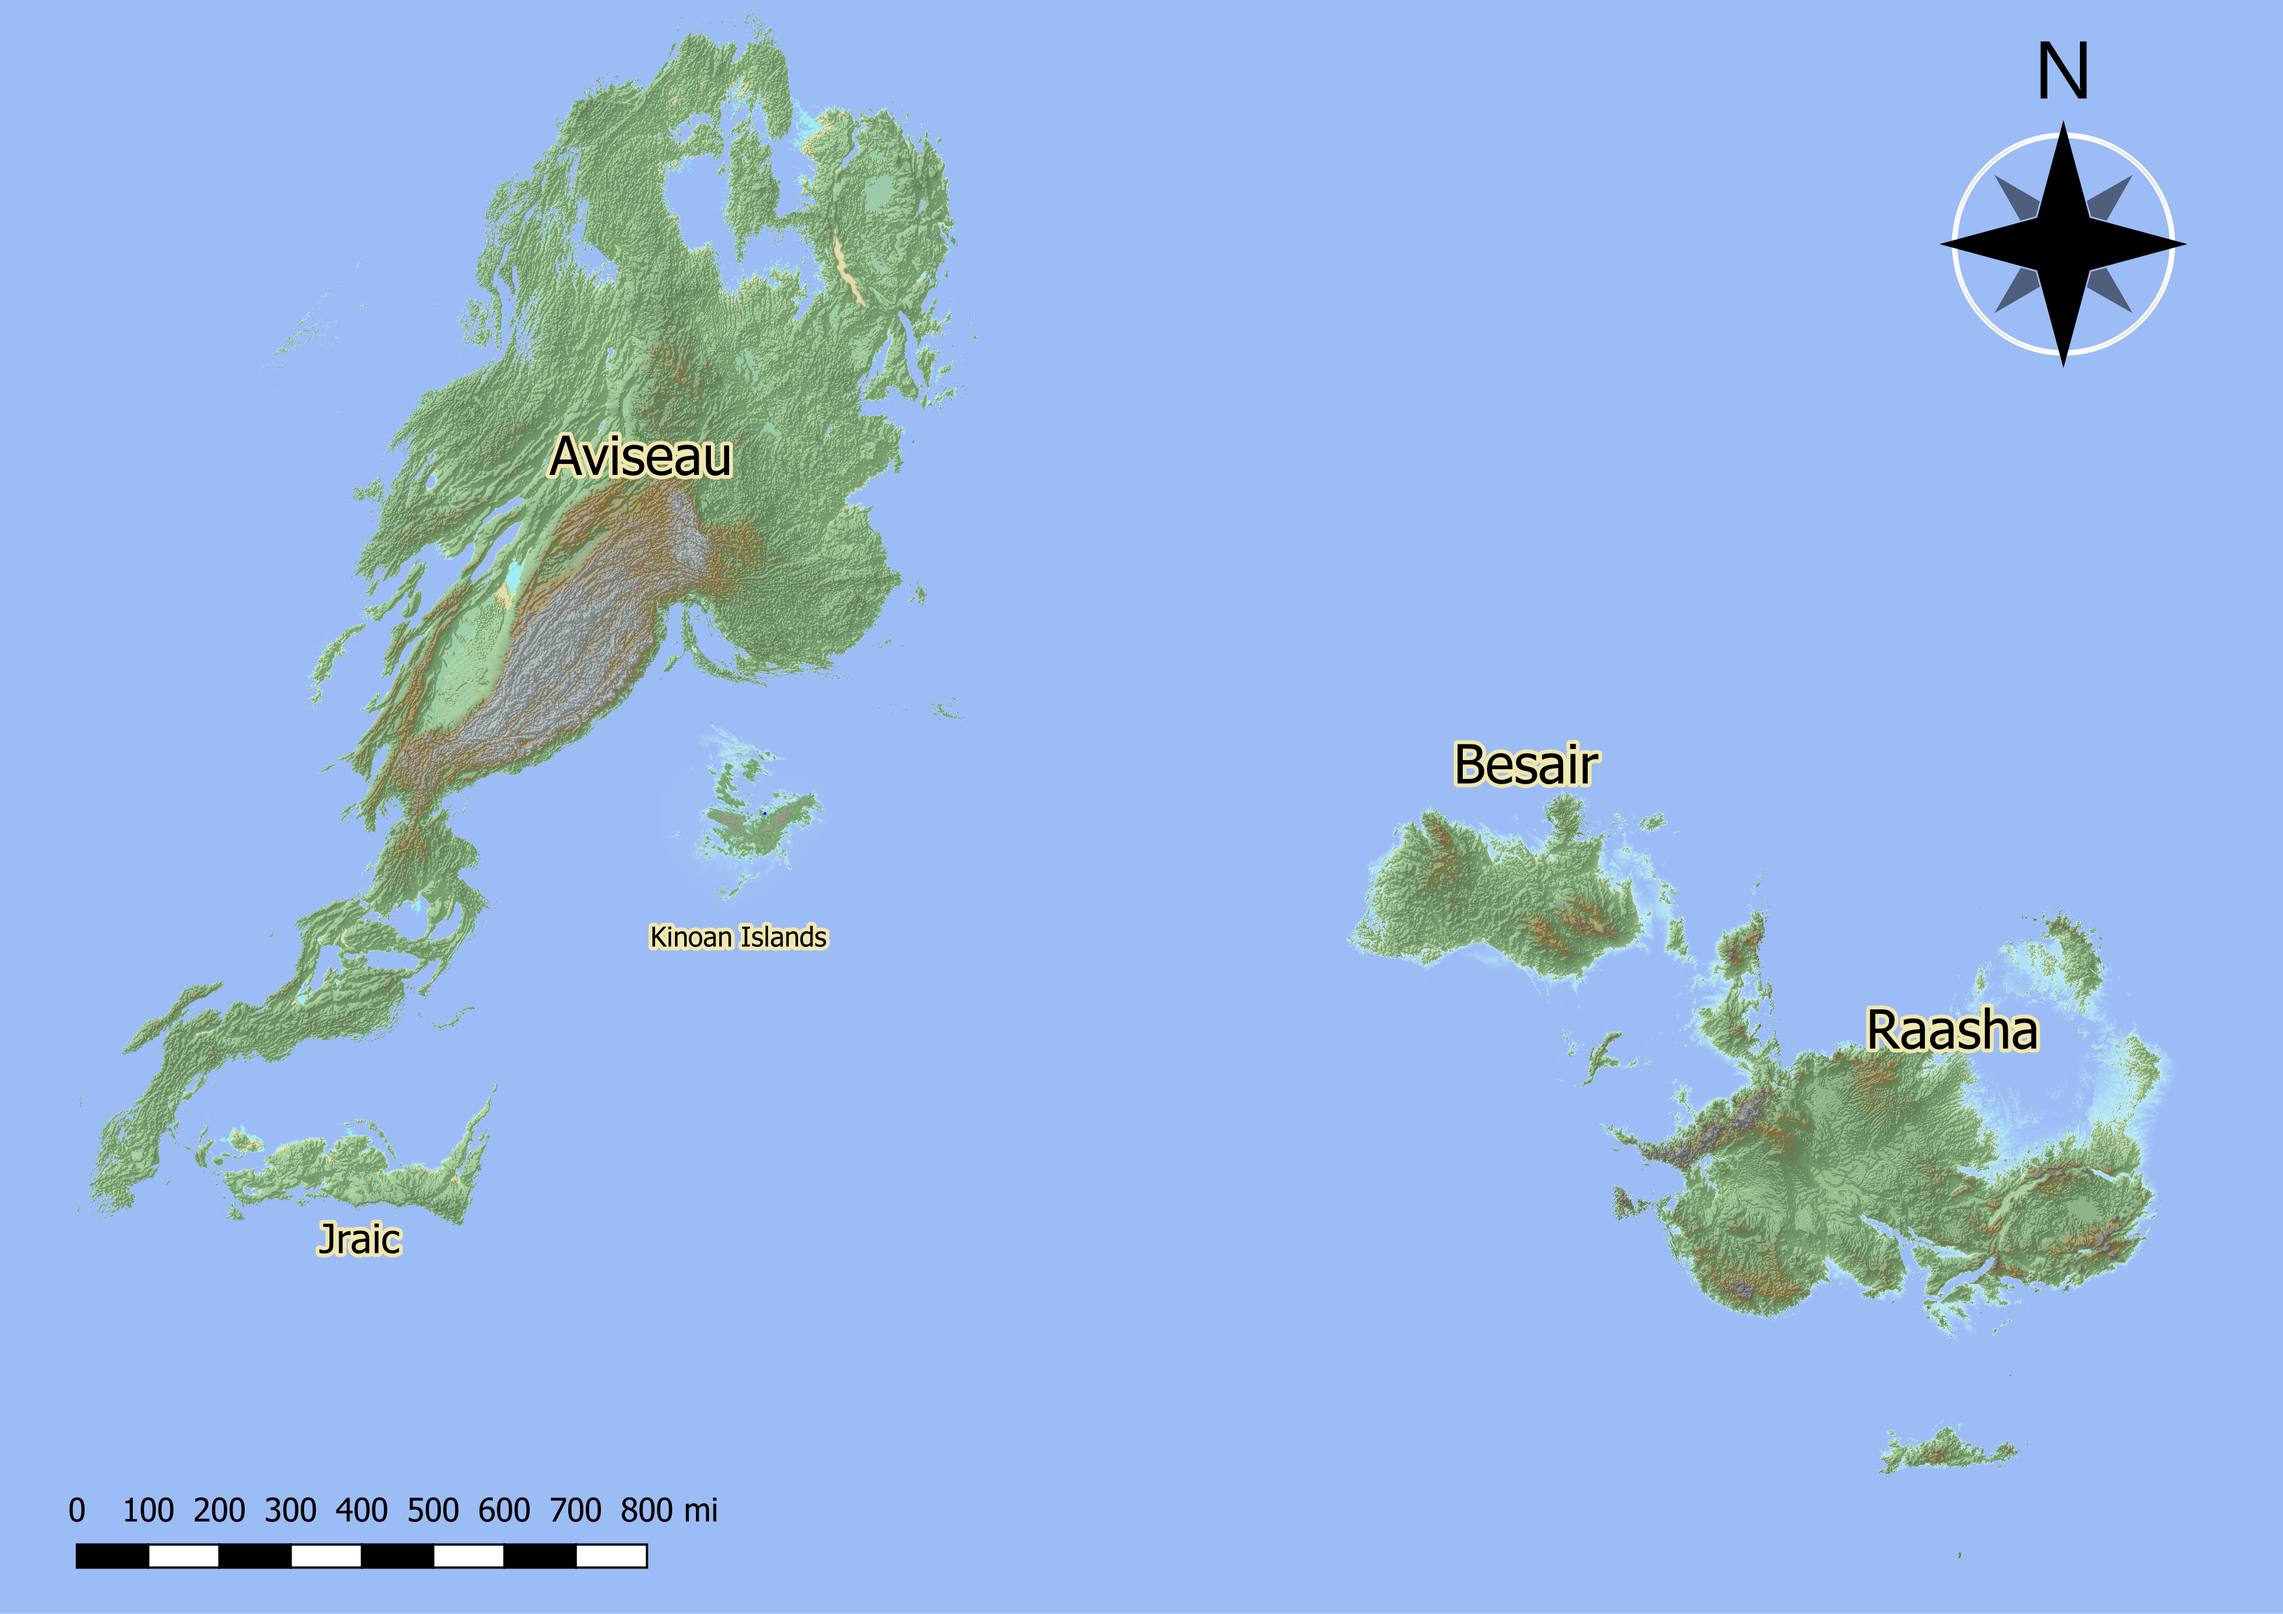
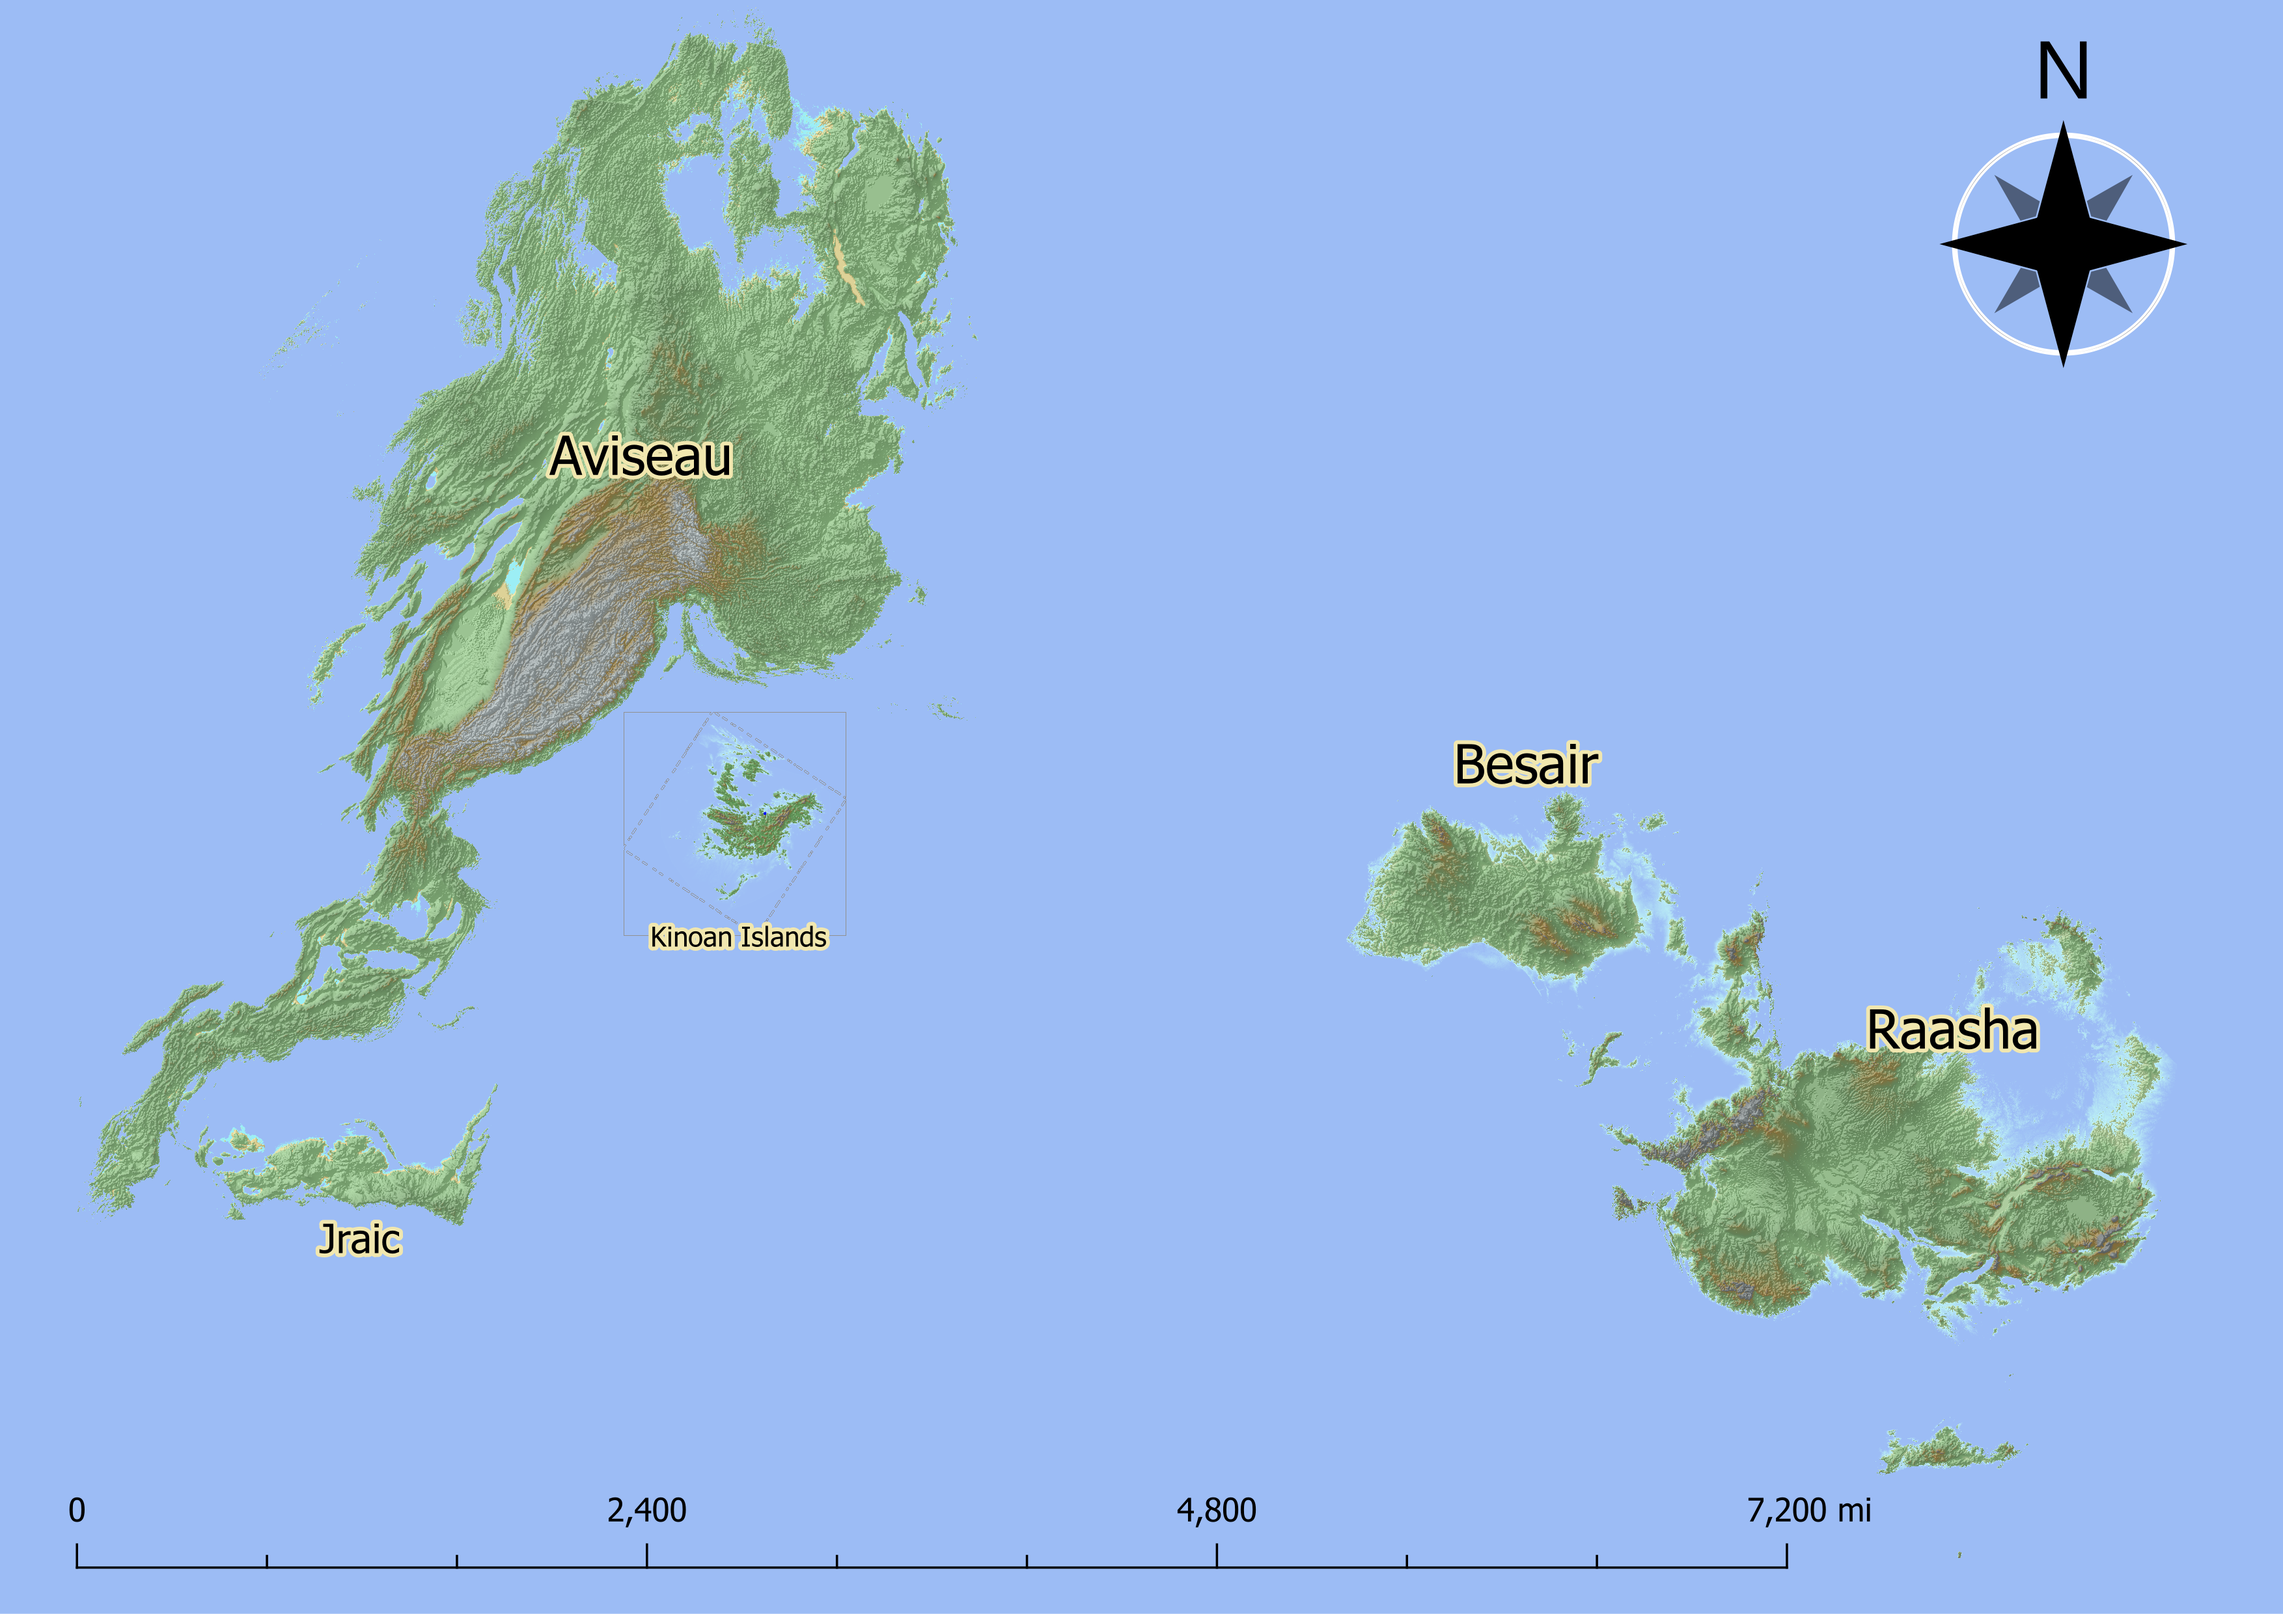
Quartz sync: Oct 16, 2025, 1:09 PM

diff --git a/content/Iometis Player Information/Locations/Kinoan Islands/Kinos/Settlements/Midovici/Midovici.md b/content/Iometis Player Information/Locations/Kinoan Islands/Kinos/Settlements/Midovici/Midovici.md
@@ -34,3 +34,13 @@ The Ghost of Light Keeper: Legend says the light house is haunted by the ghost o
 Rumor has it that the Diamond Circle is planning something big, and dangerous, speculation says they are preparing for war but against who is the harder question to answer.
 
 People have been disappearing from the poorer districts of the city recently, no one knows where they go or what has happened to them, most assume they ran away or died an unknown death somewhere, but those who knew them insist that something nefarious is afoot.
+
+Maps
+---
+### Region under Midovici's Protection Guild
+![[Midovici Region Map.png]]
+
+### Midovici
+![[Midovici Map.png]]
+
+

diff --git a/content/Iometis Player Information/Locations/Kinoan Islands/Kinos/Kinos Overview.md b/content/Iometis Player Information/Locations/Kinoan Islands/Kinos/Kinos Overview.md
@@ -1,3 +1,5 @@
+![[Kinos Island Map.png]]
+
 ## Overview
 
 The largest of the three islands and the namesake of the region, Kinos is known for its vast forests which cover most of the island. Kinos is broken up into three main regions: the Mynead Highlands which dominate the North-Eastern section of the island, the Kostos Lowlands in the southern regions of the island, and Kepski’s Maw in the Western reaches of the island.

diff --git a/content/Iometis Player Information/Locations/Kinoan Islands/Kinos/Settlements/Belhan.md b/content/Iometis Player Information/Locations/Kinoan Islands/Kinos/Settlements/Belhan.md
@@ -1,5 +1,6 @@
 #Location 
 
+![[Belhan Town Map.png]]
 Belhan
 --
 Population: ~500
